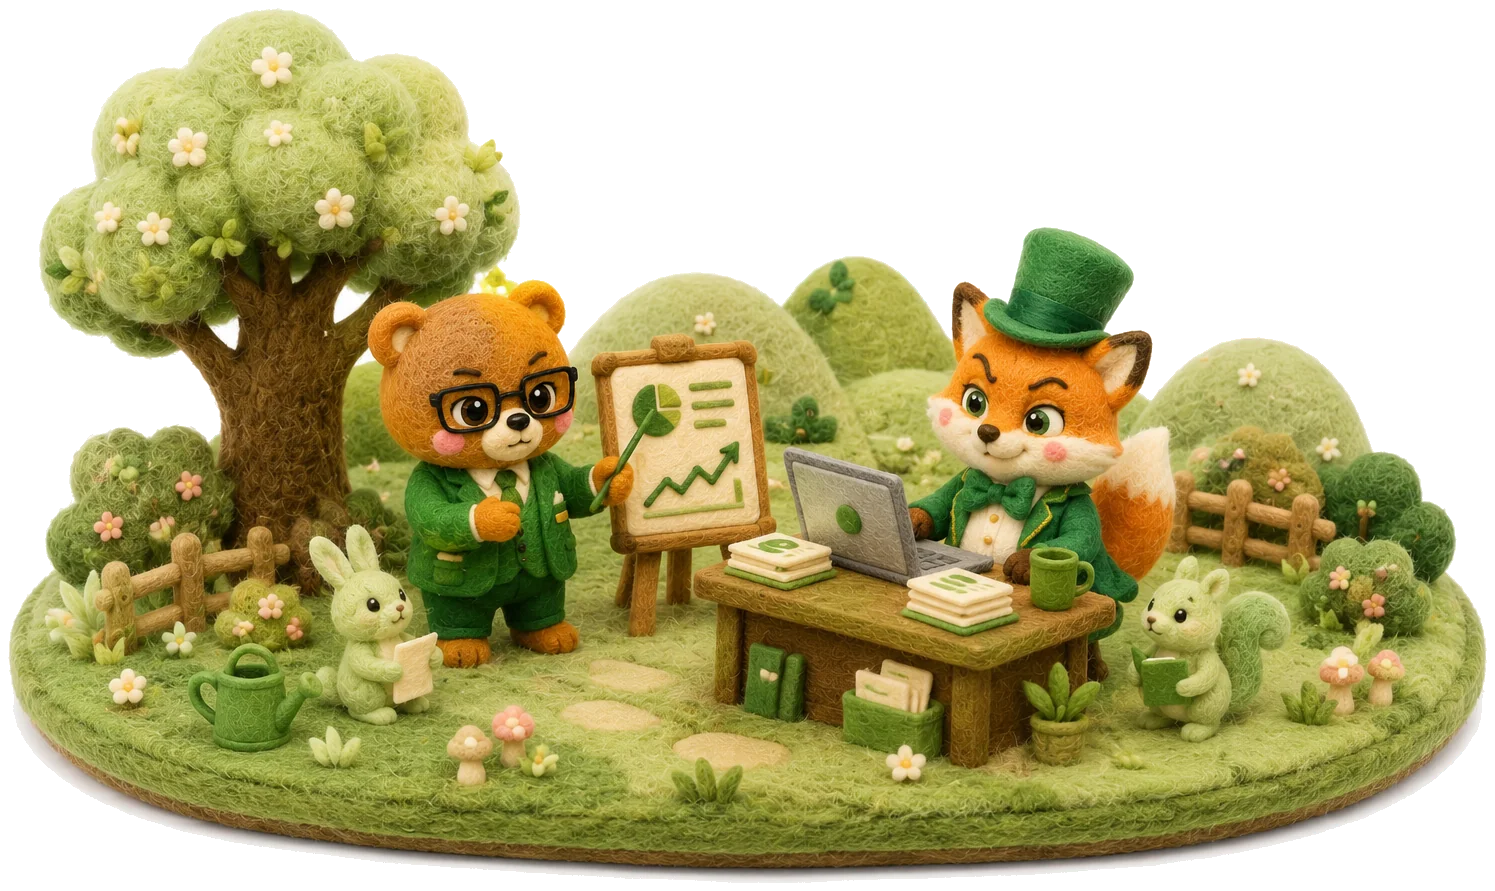
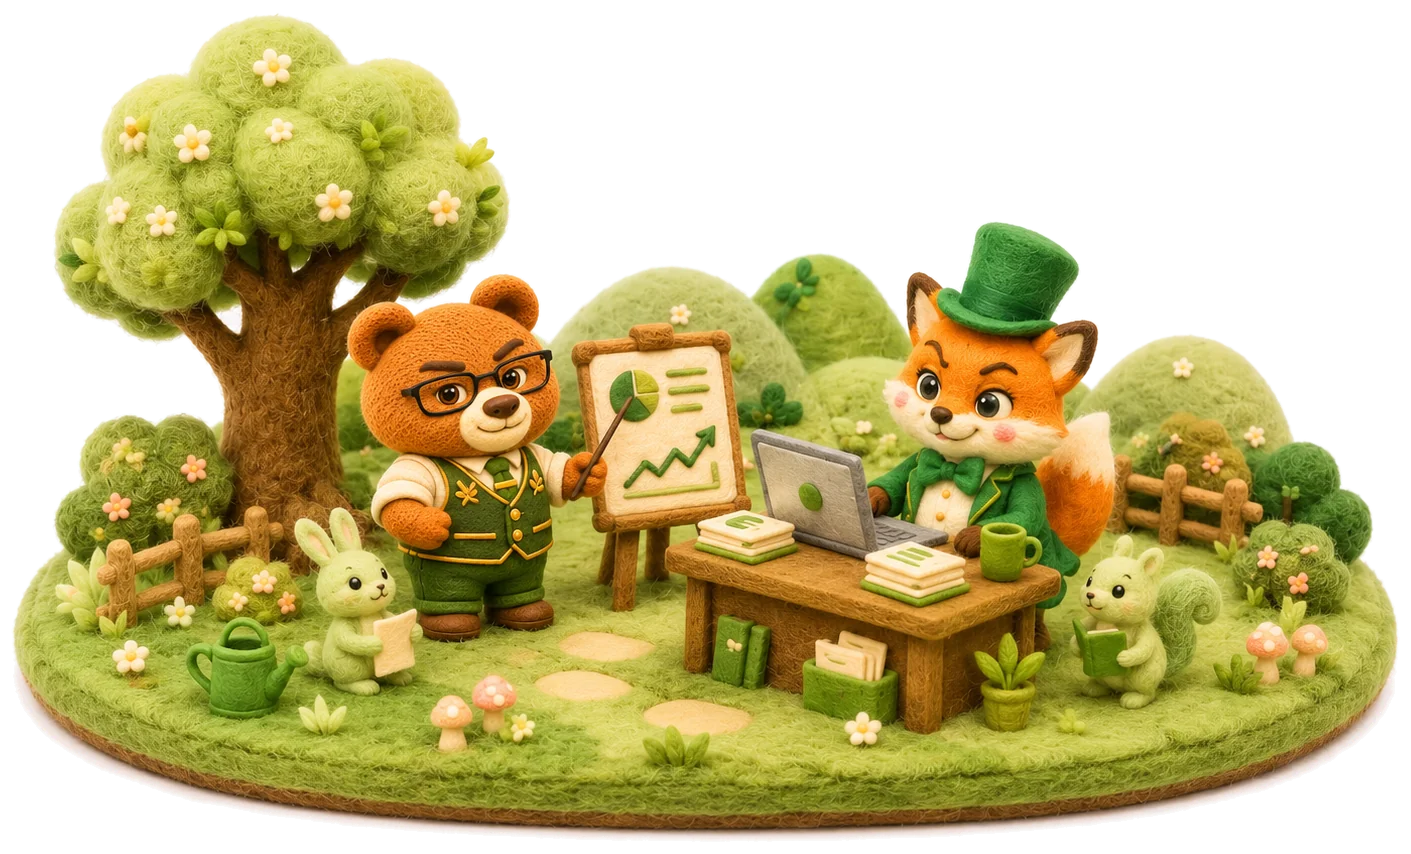
陸グループのキャリア傾向挿絵(land_work)を新デザインに差し替え
- 元画像は背景が単色(透過なし)のため、背景を抜いて透過WebP化
- キャラ素材のキャッシュ世代を 20261118-1 に更新

Claude-Session: https://claude.ai/code/session_01TauYvNRaFvhmnvTUQTx27p

diff --git a/src/lib/asset-versions.ts b/src/lib/asset-versions.ts
@@ -1,3 +1,3 @@
 // ファイル名を変えずに差し替える生成済みキャラ素材の世代。
 // next/image の許可リストとURL生成で共有し、更新漏れを防ぐ。
-export const GENERATED_CHARACTER_ASSET_VERSION = "20261117-1";
+export const GENERATED_CHARACTER_ASSET_VERSION = "20261118-1";
